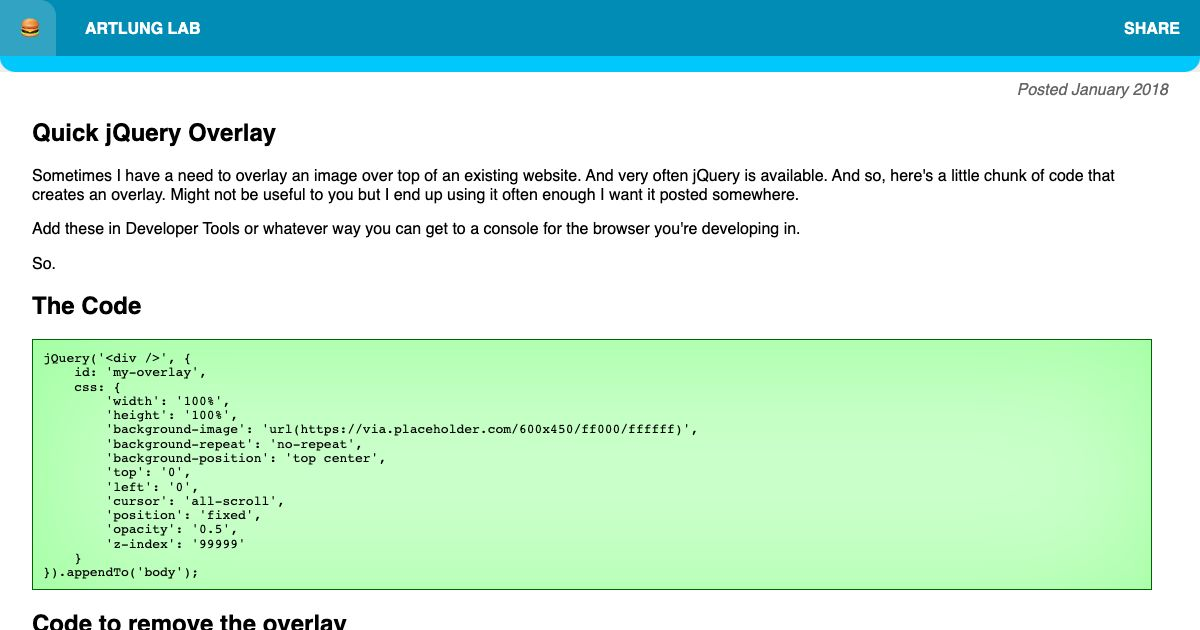
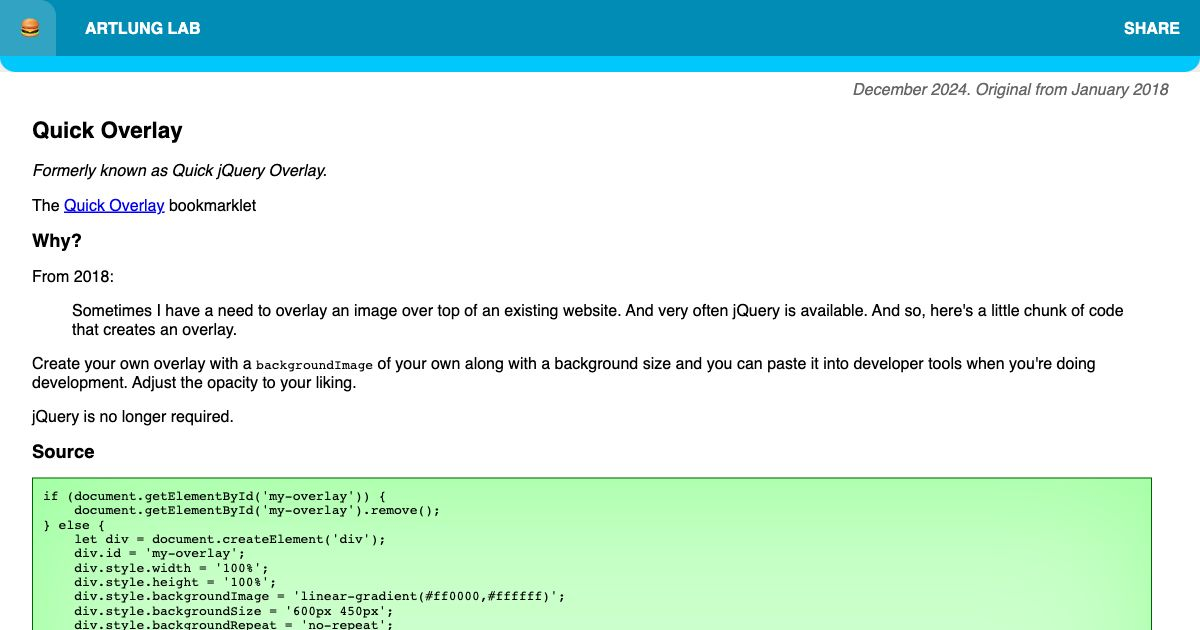
New unit test for bookmarklet creation, updated metadata, og images for the bookmarklet and "jquery" overlay pages. Added random keystroke page to RSS, fixed RSS.

diff --git a/web/bookmarklets/reenable-right-click.js b/web/bookmarklets/reenable-right-click.js
@@ -1,0 +1,43 @@
+// This is a draft. Might not pan out.
+// naive attempt based on oncontextmenu attributes
+document.querySelectorAll('[oncontextmenu]').forEach(function (element) {
+    console.log('removing oncontextmenu from element', element);
+    element.removeAttribute('oncontextmenu');
+});
+
+// naive attempt based on onmousedown attributes
+document.querySelectorAll('[onmousedown]').forEach(function (element) {
+    console.log('removing onmousedown from element', element);
+    element.removeAttribute('onmousedown');
+});
+
+// naive attempt based on onmouseup attributes
+document.querySelectorAll('[onmouseup]').forEach(function (element) {
+    console.log('removing onmouseup from element', element);
+    element.removeAttribute('onmouseup');
+});
+
+// naive attempt based on onselectstart attributes
+
+document.querySelectorAll('[onselectstart]').forEach(function (element) {
+    console.log('removing onselectstart from element', element);
+    element.removeAttribute('onselectstart');
+});
+
+// naive attempt based on ondragstart attributes
+document.querySelectorAll('[ondragstart]').forEach(function (element) {
+    console.log('removing ondragstart from element', element);
+    element.removeAttribute('ondragstart');
+});
+
+// naive attempt based on ondrag attributes
+document.querySelectorAll('[ondrag]').forEach(function (element) {
+    console.log('removing ondrag from element', element);
+    element.removeAttribute('ondrag');
+});
+
+// naive attempt based on ondragend attributes
+document.querySelectorAll('[ondragend]').forEach(function (element) {
+    console.log('removing ondragend from element', element);
+    element.removeAttribute('ondragend');
+});

diff --git a/web/quick-jquery-overlay/quick-jquery-overlay-revisited.js b/web/quick-jquery-overlay/quick-jquery-overlay-revisited.js
@@ -1,0 +1,21 @@
+if (document.getElementById('my-overlay')) {
+    document.getElementById('my-overlay').remove();
+} else {
+    let div = document.createElement('div');
+    div.id = 'my-overlay';
+    div.style.width = '100%';
+    div.style.height = '100%';
+    div.style.backgroundImage = 'linear-gradient(#ff0000,#ffffff)';
+    div.style.backgroundSize = '600px 450px';
+    div.style.backgroundRepeat = 'no-repeat';
+    div.style.backgroundColor = 'rgba(0,0,0,0.2)';
+    div.style.backgroundPosition = '50% 50%';
+    div.style.position = 'fixed';
+    div.style.opacity = '0.5';
+    div.style.zIndex = '99999';
+    div.style.cursor = 'all-scroll';
+    div.style.top = '0';
+    div.style.left = '0';
+    div.style.pointerEvents = 'none';
+    document.body.appendChild(div);
+}

diff --git a/web/bookmarklets/go-to-rss-feed-v2.js b/web/bookmarklets/go-to-rss-feed-v2.js
@@ -1,0 +1,18 @@
+var els = document.getElementsByTagName('link');
+feeds = '';
+for (i = 0; i < els.length; i++) {
+    ty = (els[i].getAttribute('type') || '').toLowerCase();
+    url = els[i].getAttribute('href');
+    if (url && (ty == 'application/rss+xml' || ty == 'text/xml' || ty == 'text/x-opml')) {
+        if (window.confirm('Go to the RSS Feed: ' + url + '?')) {
+            feeds += url + ',';
+        }
+    }
+}
+
+if (!feeds) {
+    window.alert('No subscriptions made');
+} else {
+    feeds = feeds.substr(0, feeds.length - 1);
+    window.location = feeds;
+}

diff --git a/web/bookmarklets/bookmarklets.scss b/web/bookmarklets/bookmarklets.scss
@@ -1,0 +1,8 @@
+article#content {
+  display: grid;
+  gap: 1rem;
+  > div {
+    padding: 1rem;
+    background: rgba(0, 0, 0, 0.05);
+  }
+}

diff --git a/web/bookmarklets/bookmarklets.css b/web/bookmarklets/bookmarklets.css
@@ -1,0 +1,1 @@
+article#content{display:grid;gap:1rem}article#content>div{padding:1rem;background:rgba(0,0,0,.05)}

diff --git a/web/bookmarklets/bookmarklets.php b/web/bookmarklets/bookmarklets.php
@@ -11,30 +11,102 @@ $lab->printHeader('Bookmarklets, Miscellaneous');
         found them, so I put copies here. <a href="/feedback/">Send me a note</a> if you know from whence they came.
     </p>
 
+<div>
+
     <h2>Toggle Table Borders v.1:</h2>
 
     <p>
-        <a href="javascript:for(i=0;i<document.all.length;i++)if(document.all[i].tagName=='TABLE')void(document.all[i].border=(document.all[i].border=='0')?'1':'0');">TogTable</a>
+        <?php ob_start(); ?><a href="javascript:for(i=0;i<document.all.length;i++)if(document.all[i].tagName=='TABLE')void(document.all[i].border=(document.all[i].border=='0')?'1':'0');">TogTable</a><?php
+        $code = ob_get_clean();
+        ?>
     </p>
+
+<h3>Source</h3>
+
+<?php $lab->printCodeBlock($code); ?>
+
+</div>
+    <div>
 
     <h2>ToggleCSS v.1</h2>
 
     <p>
-        <a href="javascript:var%20i=0;if(document.styleSheets.length%3E0){cs=!document.styleSheets[0].disabled;for(i=0;i%3Cdocument.styleSheets.length;i++)%20document.styleSheets[i].disabled=cs;}void(cs=true);">TogCSS</a>
+        <?php ob_start(); ?><a href="javascript:var%20i=0;if(document.styleSheets.length%3E0){cs=!document.styleSheets[0].disabled;for(i=0;i%3Cdocument.styleSheets.length;i++)%20document.styleSheets[i].disabled=cs;}void(cs=true);">TogCSS</a><?php
+        $code = ob_get_clean();
+        ?>
     </p>
+
+    <h3>Source</h3>
+
+<?php $lab->printCodeBlock($code); ?>
+
+    </div>
+    <div>
 
     <h2>Toggle Table Borders v.2 (new and improved, submitted by Reid)</h2>
 
     <p>
-        <a href="javascript:for(i=0;i<document.getElementsByTagName('TABLE').length;i++)void(document.getElementsByTagName('TABLE')[i].border=(document.getElementsByTagName('TABLE')[i].border=='0')?'1':'0');">TogTable</a>
+        <?php ob_start(); ?><a href="javascript:for(i=0;i<document.getElementsByTagName('TABLE').length;i++)void(document.getElementsByTagName('TABLE')[i].border=(document.getElementsByTagName('TABLE')[i].border=='0')?'1':'0');">TogTable</a><?php
+        $code = ob_get_clean();
+        ?>
     </p>
 
-    <h2>goToRSSFeed</h2>
+    <h3>Source</h3>
+
+<?php $lab->printCodeBlock($code); ?>
+
+    </div>
+    <div>
+
+    <h2>goToRSSFeed v.1</h2>
     <p>
-        <a href="javascript:els=document.getElementsByTagName('link');feeds='';for(i=0;i<els.length;i++){ty=(els[i].getAttribute('type')||'').toLowerCase();url=els[i].getAttribute('href');if(url&&(ty=='application/rss+xml'||ty=='text/xml'||ty=='text/x-opml')){if(window.confirm('Go to the RSS Feed: '+url+'?')){feeds+=url+',';}}}if(!feeds){window.alert('No subscriptions made');}else{feeds=feeds.substr(0,feeds.length-1);window.location=feeds;}">goToRSSFeed</a>
+        <?php ob_start(); ?><a href="javascript:els=document.getElementsByTagName('link');feeds='';for(i=0;i<els.length;i++){ty=(els[i].getAttribute('type')||'').toLowerCase();url=els[i].getAttribute('href');if(url&&(ty=='application/rss+xml'||ty=='text/xml'||ty=='text/x-opml')){if(window.confirm('Go to the RSS Feed: '+url+'?')){feeds+=url+',';}}}if(!feeds){window.alert('No subscriptions made');}else{feeds=feeds.substr(0,feeds.length-1);window.location=feeds;}">goToRSSFeed</a><?php
+        $code = ob_get_clean();
+        ?>
     </p>
 
+    <h3>Source</h3>
 
+<?php $lab->printCodeBlock($code); ?>
+
+    </div>
+    <div>
+
+    <h2>goToRSSFeed v.2</h2>
+    <p>
+    <p>
+    <?php
+        $js = file_get_contents('go-to-rss-feed-v2.js');
+        $js_bookmarklet = 'javascript:' . \ArtlungLab\Bookmarklet::javascriptToBookmarklet($js);
+        printf('<a href="%s">goToRSSFeed</a>', $js_bookmarklet);
+    ?>
+    </p>
+    <h3>Source</h3>
+
+<?php $lab->printCodeBlock($js); ?>
+
+    </div>
+
+
+<div>
+    <h2>Re-enable Right Click</h2>
+    <p>
+        Many websites disable right click, let's try to re-enable it by checking for oncontextmenu events and nuking them.
+    </p>
+    <p>
+        <?php
+        $js = file_get_contents('reenable-right-click.js');
+        $js_bookmarklet = 'javascript:' . \ArtlungLab\Bookmarklet::javascriptToBookmarklet($js);
+        printf('<a href="%s">Re-enable Right Click</a>', $js_bookmarklet);
+        ?>
+        <h3>Source Code</h3>
+    <?php $lab->printCodeBlock($js); ?>
+</div>
+
+
+<link rel="stylesheet" href="bookmarklets.css<?php
+    echo '?'.filemtime('bookmarklets.css');
+?>">
 <?php
 $lab->printFooter(
     [

diff --git a/web/quick-jquery-overlay/quick-jquery-overlay.php b/web/quick-jquery-overlay/quick-jquery-overlay.php
@@ -6,44 +6,42 @@ $lab->printHeader(
 );
 
 ?>
+<p class="date-attribution">December 2024. Original from January 2018</p>
 
-    <p class="date-attribution">Posted January 2018</p>
+    <h1>Quick Overlay</h1>
+    <p><em>
+            Formerly known as Quick jQuery Overlay.
+        </em></p>
 
-    <h1>Quick jQuery Overlay</h1>
+<?php
+    $js = file_get_contents('quick-jquery-overlay-revisited.js');
 
-    <p>Sometimes I have a need to overlay an image over top of an existing website. And very often jQuery is available.
-        And so, here's a little chunk of code that creates an overlay. Might not be useful to you but I end up using it
-        often enough I want it posted somewhere.</p>
+    // as bookmarklet
 
-    <p>Add these in Developer Tools or whatever way you can get to a console for the browser you're developing in.</p>
+    $bookmarklet = 'javascript:' . \ArtlungLab\Bookmarklet::javascriptToBookmarklet($js);
+    printf('<p>The <a href="%s">Quick Overlay</a> bookmarklet</p>', $bookmarklet);
+?>
+    <h2>Why?</h2>
 
-    <p>So.</p>
+    <p>From 2018:</p>
 
+<blockquote>
+        Sometimes I have a need to overlay an image over top of an existing website. And very often jQuery is available.
+        And so, here's a little chunk of code that creates an overlay.
+</blockquote>
 
-    <h2>The Code</h2>
+    <p>Create your own overlay with a <code>backgroundImage</code> of your own along with a background size and you can paste it into developer tools when you're doing development. Adjust the opacity to your liking.</p>
 
-    <pre>
-jQuery('&lt;div /&gt;', {
-    id: 'my-overlay',
-    css: {
-        'width': '100%',
-        'height': '100%',
-        'background-image': 'url(https://via.placeholder.com/600x450/ff000/ffffff)',
-        'background-repeat': 'no-repeat',
-        'background-position': 'top center',
-        'top': '0',
-        'left': '0',
-        'cursor': 'all-scroll',
-        'position': 'fixed',
-        'opacity': '0.5',
-        'z-index': '99999'
-    }
-}).appendTo('body');</pre>
+<p>jQuery is no longer required.</p>
 
-    <h2>Code to remove the overlay</h2>
-    <pre>
-jQuery('#my-overlay').remove()
-</pre>
+<?php
+    printf('<h2>Source</h2>');
+    $lab->printCodeBlock($js);
+?>
+
+<h2>Source (compressed)</h2>
+
+<pre><code><?php print $bookmarklet; ?></code></pre>
 
 <?php
 $lab->printFooter(

diff --git a/classes/Nav.php b/classes/Nav.php
@@ -27,7 +27,7 @@ class Nav
 
         // yaml is the source of truth, generate this with slugs_and_titles.php do not hand edit this:
 
-        /* START: handled by php generate-nav-value LAST UPDATE 2024-12-23 21:46:54 */
+        /* START: handled by php generate-nav-value LAST UPDATE 2024-12-24 06:40:18 */
         return $slugs_and_titles = array (
         '50states' => 
         array (
@@ -242,6 +242,7 @@ class Nav
         0 => 'css',
         1 => 'html',
         2 => 'rss',
+        3 => 'bookmarklet',
         ),
         'webmention_last_checked' => 1734922961,
         'webmention_count' => 1,
@@ -924,6 +925,7 @@ class Nav
         'title' => 'The Lab',
         'webmention_last_checked' => 1734989686,
         'webmention_count' => 20,
+        'og-image-date' => '2024-12-24 06:38:54',
         ),
         'html-2.0' => 
         array (
@@ -1067,6 +1069,7 @@ class Nav
         'og-image-date' => '2024-12-18 15:40:35',
         'webmention_last_checked' => 1734922974,
         'webmention_count' => 0,
+        'atom_feed_publish_date' => '2024-12-23 20:00:00',
         ),
         'larger-checkbox-with-css' => 
         array (
@@ -1504,16 +1507,17 @@ class Nav
         'quick-jquery-overlay' => 
         array (
         'slug' => 'quick-jquery-overlay',
-        'og-image-date' => '2024-12-17 01:21:10',
-        'year' => 2018,
+        'year' => 2024,
         'canonical_url' => 'https://lab.artlung.com/quick-jquery-overlay/',
-        'title' => 'Quick jQuery Overlay',
+        'title' => 'Quick Overlay',
         'tags' => 
         array (
         0 => 'javascript',
+        1 => 'bookmarklet',
         ),
         'webmention_last_checked' => 1734922982,
         'webmention_count' => 0,
+        'og-image-date' => '2024-12-24 06:38:54',
         ),
         'quote-to-dl' => 
         array (
@@ -1642,6 +1646,7 @@ class Nav
         array (
         0 => 'css',
         1 => 'javascript',
+        2 => 'bookmarklet',
         ),
         'og-image-date' => '2024-12-21 05:09:27',
         'atom_feed_publish_date' => '2024-12-20 21:09:27',

diff --git a/web/feed.xml.php b/web/feed.xml.php
@@ -32,9 +32,17 @@ $items_with_atom_feed_publish_date = array_filter(
     }
 );
 
-usort(
-    $items_with_atom_feed_publish_date, function ($a, $b) {
-        return $a['atom_feed_publish_date'] <=> $b['atom_feed_publish_date'];
+//usort(
+//    $items_with_atom_feed_publish_date, function ($a, $b) {
+//        return $a['atom_feed_publish_date'] <=> $b['atom_feed_publish_date'];
+//    }
+//);
+
+// retain the keys
+$items_with_atom_feed_publish_date = array_filter(
+    $items_with_atom_feed_publish_date, function ($item) {
+        return isset($item['atom_feed_publish_date']) && isset($item['og-image-date'])
+        && $item['atom_feed_publish_date'] && $item['og-image-date'];;
     }
 );
 

diff --git a/tests/BookmarkletTest.php b/tests/BookmarkletTest.php
@@ -1,0 +1,16 @@
+<?php
+
+
+use ArtlungLab\Bookmarklet;
+use PHPUnit\Framework\TestCase;
+
+class BookmarkletTest extends TestCase
+{
+    public function testJavascriptToBookmarklet()
+    {
+        $js = 'console.log("Hello, World!");';
+        $bookmarklet = Bookmarklet::javascriptToBookmarklet($js);
+        $this->assertEquals('console.log%28%22Hello%2C%20World%21%22%29%3B', $bookmarklet);
+    }
+
+}

diff --git a/classes/Bookmarklet.php b/classes/Bookmarklet.php
@@ -25,9 +25,10 @@ class Bookmarklet
      *
      * @return string
      */
-    public static function javascriptToBookmarklet($js)
+    public static function javascriptToBookmarklet($js): string
     {
-        return $minifiedCode = rawurlencode(Minifier::minify($js));
+        $minifiedCode = rawurlencode(Minifier::minify($js));
+        return $minifiedCode;
     }
 
 }
